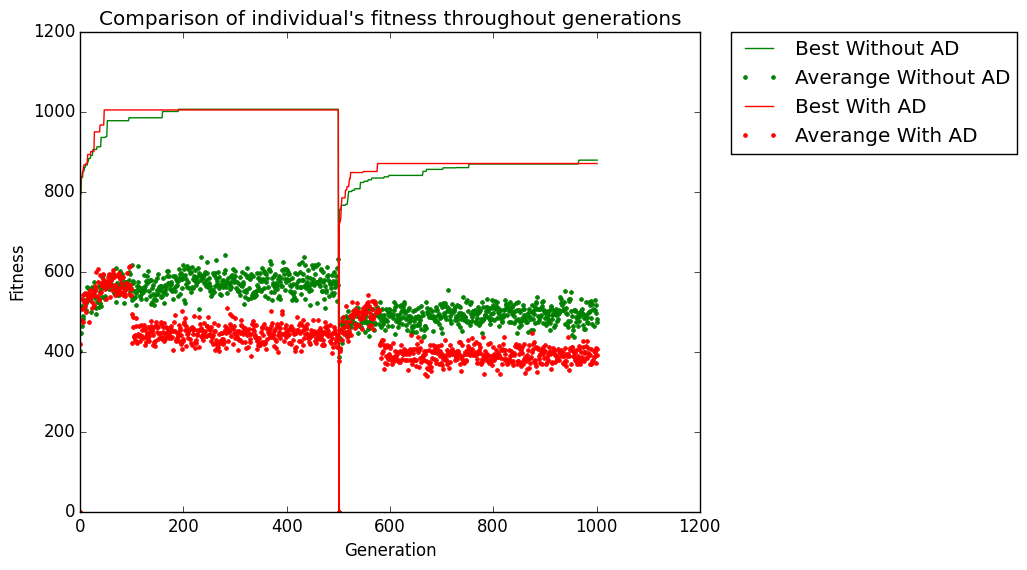
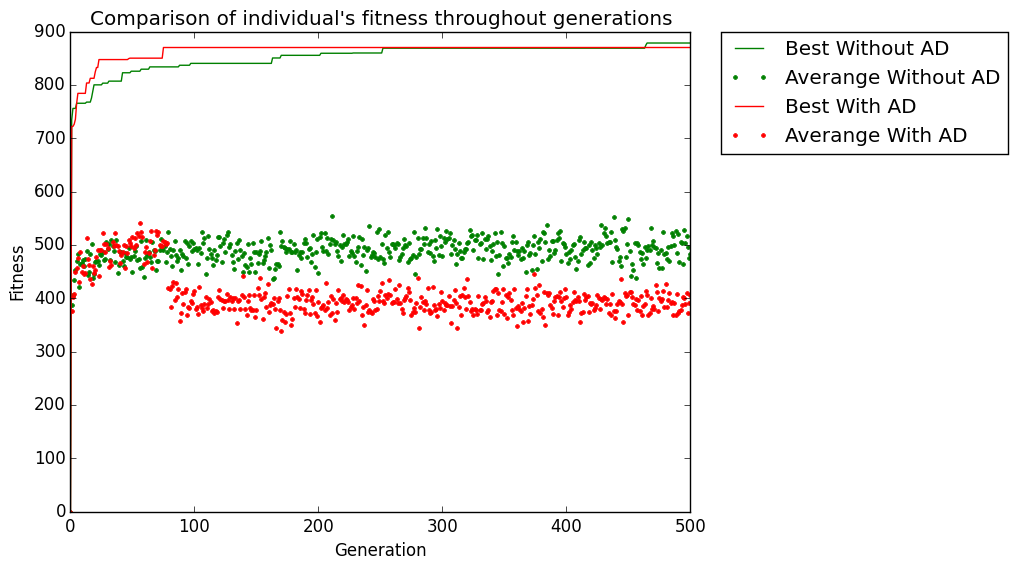
- note to self: don't be a dumb ass -- missed an array re-initialization

diff --git a/code/analyse.py b/code/analyse.py
@@ -19,12 +19,6 @@ def analyse_both(path, results_wad, results_woad):
     """
     run_counter = 1
 
-    best_fitness_wad = []
-    average_fitness_wad = []
-
-    best_fitness_woad = []
-    average_fitness_woad = []
-
     # get rid of the useless information for this analysis
     temp = []
     for accumulated_generations, pheno, problem in results_woad:
@@ -39,6 +33,12 @@ def analyse_both(path, results_wad, results_woad):
     clean_results = list(zip(results_woad, results_wad))
 
     for acc_gen_woad, acc_gen_wad in clean_results:
+
+        best_fitness_wad = []
+        average_fitness_wad = []
+
+        best_fitness_woad = []
+        average_fitness_woad = []
 
         for population_woad in acc_gen_woad:
             best_indiv = population_woad[0]
@@ -85,8 +85,10 @@ def plot_generations(path, accumulated_generations, title):
     plt.xlabel('Generation')
     plt.ylabel('Fitness')
     plt.title(title)
+
     plt.plot(best_fitness, 'g', label="Best")  # best individual
     plt.plot(average_fitness, 'r.', label="Average")  # average of individuals
+
     plt.legend(bbox_to_anchor=(1.05, 1), loc=2, borderaxespad=0.)
     plt.savefig(path, bbox_inches='tight')
     plt.close()
@@ -100,15 +102,16 @@ def analyse_regular(path, data):
     - analisar os melhores resultados e os resultados da média
     - analisar o efeito das alterações nos parâmetros
     """
+
     run_counter = 1
 
     for accumulated_generations, pheno, problem in data:
 
         # record the results of this simulate in the appropriate directory
         best = best_pop(accumulated_generations[-1])
+
         write_str_to_file(path + "/run_" + str(run_counter) + "/WOAD.txt", display(best, pheno, problem))
         plot_generations(path + "/run_" + str(run_counter) + "/WOAD.png", accumulated_generations, 'Without AD')
-        plt.close()
 
         run_counter += 1
 
@@ -124,6 +127,7 @@ def analyse_auto_adapt(path, data):
     run_counter = 1
 
     for sim_data, pheno, problem in data:
+
         accumulated_generations = sim_data[0]
         accumulated_differences = sim_data[1]
         crossover_probs = sim_data[2]

diff --git a/code/stratego_auto_adapt.py b/code/stratego_auto_adapt.py
@@ -5,7 +5,6 @@ Remarks: Our proposal of an Auto-Adapting Evolutionary Algorithm
 """
 
 from random import *
-from kp_1 import *
 from analyse import *
 
 
@@ -289,11 +288,14 @@ Enjoy your trip! But be warned, we're constantly _evolving_ our skills. Ha ha ha
 Get it?! No? Ok. We'll show ourselves out...
 """
 if __name__ == '__main__':
-    f = open('output.txt', 'w')
+
     seed(666)  # random number generation with fixed seed for reproduceable results
 
     DEBUG = False
     LOG_OUTPUT = False
+    f = open('output.txt', 'w')
+    f.close()
+    f = open('output.txt', 'a')
 
     # Problem specific
     NUM_ITEMS = 50  # 50
@@ -306,6 +308,7 @@ if __name__ == '__main__':
     PROB_CROSSOVER = 0.80  # resposável por variações grandes no início
     PROB_MUTATION = 0.10  # resposável por variações pequenas no final
 
+    # TODO fine tune these!
     # AD Approach specific parameters
     WINDOW_SIZE = 10  # number previous generations considered for altering the auto-adaptative parameters
     ACTIVATION_THRESHOLD = 0  # below this lower bound start reversing the crossover and mutation
